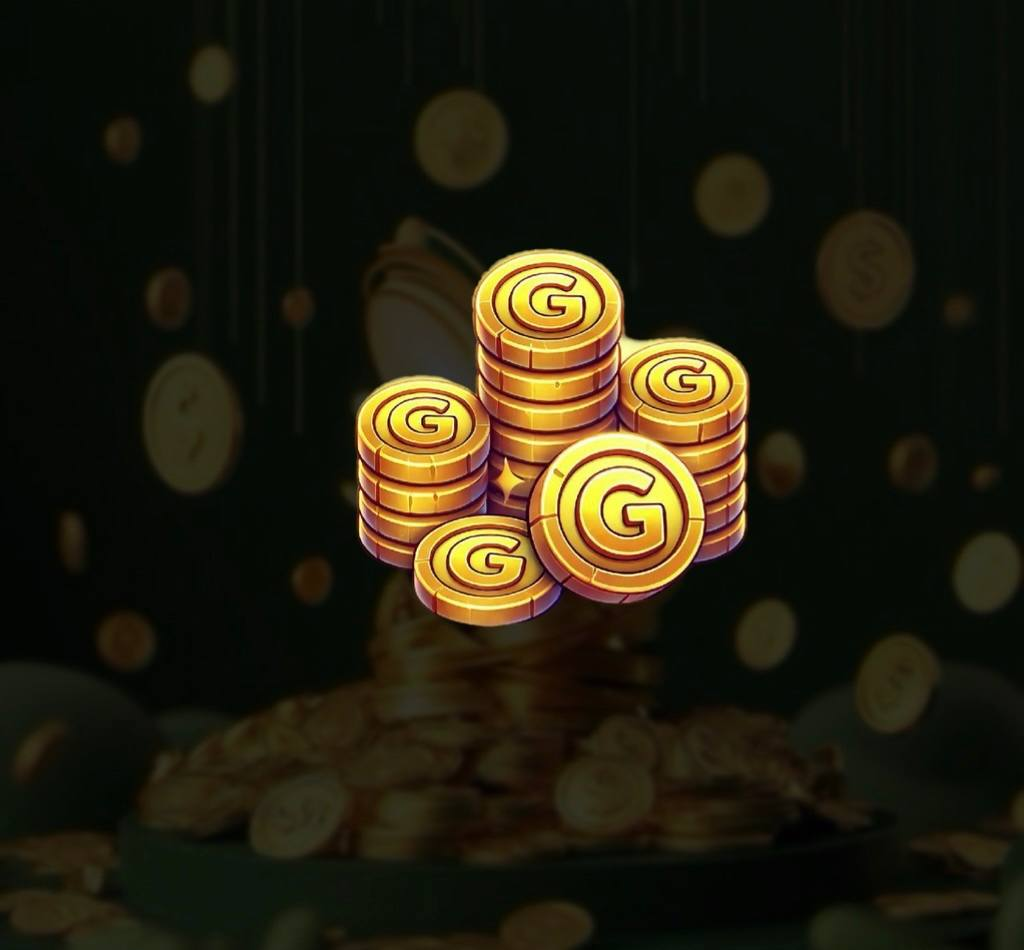
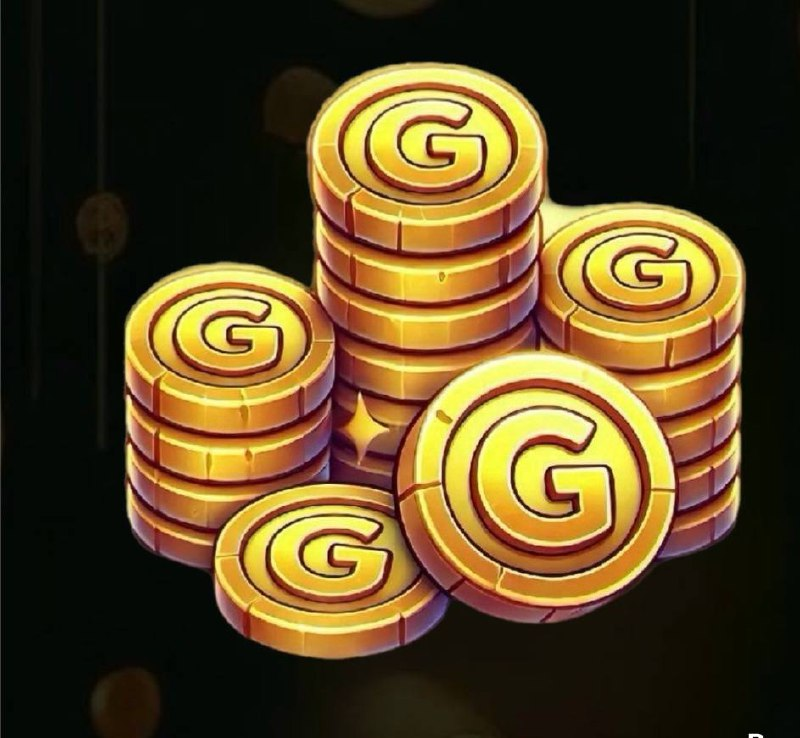
Add files via upload

diff --git a/style.css b/style.css
@@ -1,3 +1,5 @@
+@import url('https://fonts.googleapis.com/css2?family=Babydoll&display=swap');
+
 :root {
     --primary-green: #0D3B12; /* Darkest green */
     --secondary-green: #000000; /* Black */
@@ -16,31 +18,19 @@
     --mobile-navbar-color: #0D3B12; /* Dark green for mobile navbar */
 }
 
-@import url('https://fonts.googleapis.com/css2?family=EB+Garamond&display=swap'); /* Import new Greek font */
-@import url('https://fonts.googleapis.com/css2?family=Comic+Neue:wght@700&display=swap'); /* Import Comic Sans-like font */
-@import url('https://fonts.googleapis.com/css2?family=Babydoll&display=swap'); /* Import Babydoll font */
-@import url('https://fonts.googleapis.com/css2?family=Ribeye&display=swap');
 
 body {
-    font-family: 'Ribeye', cursive; /* Apply Ribeye font */
+    font-family: 'Babydoll', Arial, Helvetica, sans-serif;
     font-weight: 600; /* Add semi-bold weight to all text */
     color: var(--text-color); /* Use white for text */
-    background: var(--bg-color) url('G7.jpg') no-repeat center center fixed;
+    background: var(--bg-color) url('G13.jpg') no-repeat center center fixed;
     background-size: cover;
-    background-position: center;
     position: relative;
 }
 
-/* Add overlay to body */
+/* Remove the overlay completely */
 body::before {
-    content: '';
-    position: fixed;
-    top: 0;
-    left: 0;
-    right: 0;
-    bottom: 0;
-    background: rgba(13, 59, 18, 0.4); /* Reduced opacity from 0.8 to 0.4 */
-    z-index: -1;
+    display: none;
 }
 
 /* Navbar Styles */
@@ -51,9 +41,9 @@ body::before {
 }
 
 .navbar-brand, .nav-link {
+    font-family: 'Babydoll', Arial, Helvetica, sans-serif;
     color: var(--text-color) !important; /* Use white for text */
     font-size: 1.5rem; /* Increase font size */
-    font-family: 'Comic Neue', cursive; /* Keep meme font for headers */
     text-shadow: 2px 2px var(--secondary-green); /* Use black for shadow */
 }
 
@@ -87,7 +77,7 @@ body::before {
 
 
 .navbar-brand {
-    font-family: 'Chopsic', serif; /* Apply Chopsic font to GROAT */
+    font-family: Arial, Helvetica, sans-serif;
     color: yellow !important; /* Change color to yellow */
     font-size: 3.5rem; /* Increase font size */
     text-shadow: 3px 3px var(--secondary-green); /* Use black for shadow */
@@ -109,7 +99,7 @@ body::before {
 }
 
 .btn-buy, .btn-join {
-    font-family: 'Comic Neue', cursive; /* Apply meme font */
+    font-family: 'Babydoll', Arial, Helvetica, sans-serif;
     border: 3px solid var(--outline-color); /* Add bold outline */
     color: yellow;
 }
@@ -199,24 +189,14 @@ body::before {
     text-align: center;
 }
 
-.main-title {
-    font-size: 8rem; /* Make the text bigger */
-    color: var(--accent-yellow); /* Change text color to yellow */
-    text-shadow: 4px 4px var(--secondary-green); /* Use black for shadow */
-    margin-bottom: 1rem;
-    font-family: 'Chopsic', serif; /* Apply Chopsic font */
-    font-weight: bold;
-    /* Removed animation */
-}
-
 /* Section Headers */
 .content-box h2 {
+    font-family: Arial, Helvetica, sans-serif;
     color: var(--light-yellow); /* Use white for text */
     text-align: center;
     margin-bottom: 2rem;
     font-size: 2.5rem;
     text-shadow: 2px 2px var(--secondary-green); /* Use black for shadow */
-    font-family: 'Comic Neue', cursive; /* Keep meme font for headers */
 }
 
 #about .content-box h2 {
@@ -255,13 +235,13 @@ body::before {
 }
 
 .token-item {
+    font-family: Arial, Helvetica, sans-serif;
     display: flex;
     justify-content: space-between;
     padding: 1rem;
     border-bottom: 2px solid var(--primary-green);
     font-size: 1.6rem; /* Increase font size */
     color: var(--light-yellow); /* Use white for text */
-    font-family: 'Babydoll', cursive; /* Apply Babydoll font */
     font-weight: 600;
 }
 
@@ -270,9 +250,9 @@ body::before {
 }
 
 .highlight {
+    font-family: Arial, Helvetica, sans-serif;
     color: var(--accent-yellow); /* Use white for highlight */
     font-weight: bold;
-    font-family: 'Babydoll', cursive; /* Apply Babydoll font */
 }
 
 /* Images */
@@ -308,11 +288,11 @@ body::before {
 }
 
 .phase h3 {
+    font-family: 'Babydoll', Arial, Helvetica, sans-serif;
     color: var(--phase-title-color); /* Change color to white */
     text-shadow: 2px 2px var(--secondary-green); /* Use black for shadow */
     padding-bottom: 0.5rem;
     margin-bottom: 1rem;
-    font-family: 'Comic Neue', cursive; /* Keep meme font for headers */
     text-transform: uppercase; /* Change to capital letters */
 }
 
@@ -362,11 +342,11 @@ body::before {
 
 /* Footer */
 .footer {
+    font-family: Arial, Helvetica, sans-serif;
     background: #000000; /* Changed to black */
     padding: 2rem 0;
     margin-top: 3rem;
     border-top: 5px solid var(--accent-yellow); /* Use white for outline */
-    font-family: 'Babydoll', cursive; /* Apply Babydoll font */
     background-image: none; /* Remove background image */
     background-size: cover;
     background-position: center;
@@ -382,8 +362,8 @@ body::before {
 }
 
 .social-icon {
-    width: 60px;
-    height: 60px;
+    width: 80px;  /* Increased from 60px */
+    height: 80px;  /* Increased from 60px */
     border-radius: 10px;
     background: #000000;
     display: flex;
@@ -407,8 +387,8 @@ body::before {
 
 @media (max-width: 768px) {
     .social-icon {
-        width: 50px;
-        height: 50px;
+        width: 70px;  /* Increased from 50px */
+        height: 70px;  /* Increased from 50px */
     }
 }
 /* ...existing code... */
@@ -504,9 +484,12 @@ body::before {
     font-size: 1.2rem;
     text-align: center;
     background: var(--secondary-green);
-    padding: 1rem;
+    padding: 2rem; /* Increased padding */
     border-radius: 10px;
     box-shadow: 0 4px 10px rgba(0, 0, 0, 0.2);
+    min-height: 200px; /* Set minimum height */
+    width: 100%; /* Ensure full width */
+    margin: 2rem 0; /* Add vertical margin */
 }
 
 /* Remove Cartoon Image */
@@ -532,21 +515,26 @@ body::before {
 
 #about {
     position: relative;
-    background: url('G1.jpg') no-repeat center center;
-    background-size: cover;
-    background-position: center;
+    background: none; /* Remove background from about section since it will be part of wrapper */
     padding: 5rem 0;
     color: var(--text-color);
 }
 
 #about::before {
-    display: none; /* Remove the green overlay */
+    content: '';
+    position: absolute;
+    top: 0;
+    left: 0;
+    right: 0;
+    bottom: 0;
+    background: rgba(13, 59, 18, 0.2); /* Reduced opacity from 0.4 to 0.2 */
+    z-index: 1;
 }
 
 #about .container {
     position: relative;
     z-index: 2;
-    background: rgba(0, 0, 0, 0.6); /* Add dark overlay for text readability */
+    background: none;
     padding: 2rem;
     border-radius: 10px;
 }
@@ -568,7 +556,7 @@ body::before {
     left: 0;
     right: 0;
     bottom: 0;
-    background: rgba(13, 59, 18, 0.8); /* Dark green overlay with 80% opacity */
+    background: rgba(13, 59, 18, 0.4); /* Reduced opacity from 0.8 to 0.4 */
     z-index: 1;
 }
 
@@ -648,10 +636,11 @@ body::before {
 /* Add new wrapper section styles */
 .header-to-about-wrapper {
     position: relative;
-    background: none;
+    background: url('G13.jpg') no-repeat center center;
     background-size: cover;
     background-position: center;
-    padding: 0;
+    padding: 0; /* Remove padding to ensure full coverage */
+    margin-bottom: 2rem;
 }
 
 .header-to-about-wrapper::before {
@@ -661,13 +650,18 @@ body::before {
     left: 0;
     right: 0;
     bottom: 0;
-    background: rgba(13, 59, 18, 0.4); /* Reduced opacity from 0.8 to 0.4 */
+    background: rgba(13, 59, 18, 0.2); /* Light green overlay */
     z-index: 1;
 }
 
 .header-to-about-wrapper > * {
     position: relative;
     z-index: 2;
+}
+
+/* Remove the writing "GROATCOIN" */
+.header-to-about-wrapper::after {
+    content: none;
 }
 
 /* Adjust text sizes throughout the page */

diff --git a/index.html b/index.html
@@ -22,7 +22,7 @@
                     <li class="nav-item"><a class="nav-link" href="#about">ABOUT</a></li>
                     <li class="nav-item"><a class="nav-link" href="#tokenomics">TOKENOMICS</a></li>
                     <li class="nav-item"><a class="nav-link" href="#roadmap">ROADMAP</a></li>
-                    <li class="nav-item"><a class="nav-link" href="#dexscreener">DEXSCREENER</a></li>
+                    <li class="nav-item"><a class="nav-link" href="#dexscreener">DEXTOOLS</a></li>
                 </ul>
                 <!-- Removed button -->
             </div>
@@ -36,9 +36,7 @@
 
     <header class="hero-section">
         <div class="container text-center">
-            <h1 class="main-title" style="font-family: 'Chopsic', sans-serif; font-size: 4rem;">
-                <span class="groat">GR<span class="coin-symbol">O</span>ATC<span class="coin-symbol">O</span>IN</span>
-            </h1>
+            <img src="G11.jpg" alt="GROATCOIN" class="img-fluid">
         </div>
     </header>
 
@@ -56,7 +54,7 @@
                         </p>
                     </div>
                     <div class="col-md-6">
-                        <img src="G1.jpg" alt="Ancient Groat" class="img-fluid rounded-image">
+                        <img src="G1.jpg" alt="Ancient Groat" class="img-fluid rounded-image" style="background: none;">
                     </div>
                 </div>
             </div>
@@ -139,7 +137,7 @@
     <section id="dexscreener" class="py-5">
         <div class="container">
             <div class="content-box">
-                <h2>Dexscreener</h2>
+                <h2>DexTools</h2>
                 <p></p>
             </div>
         </div>
